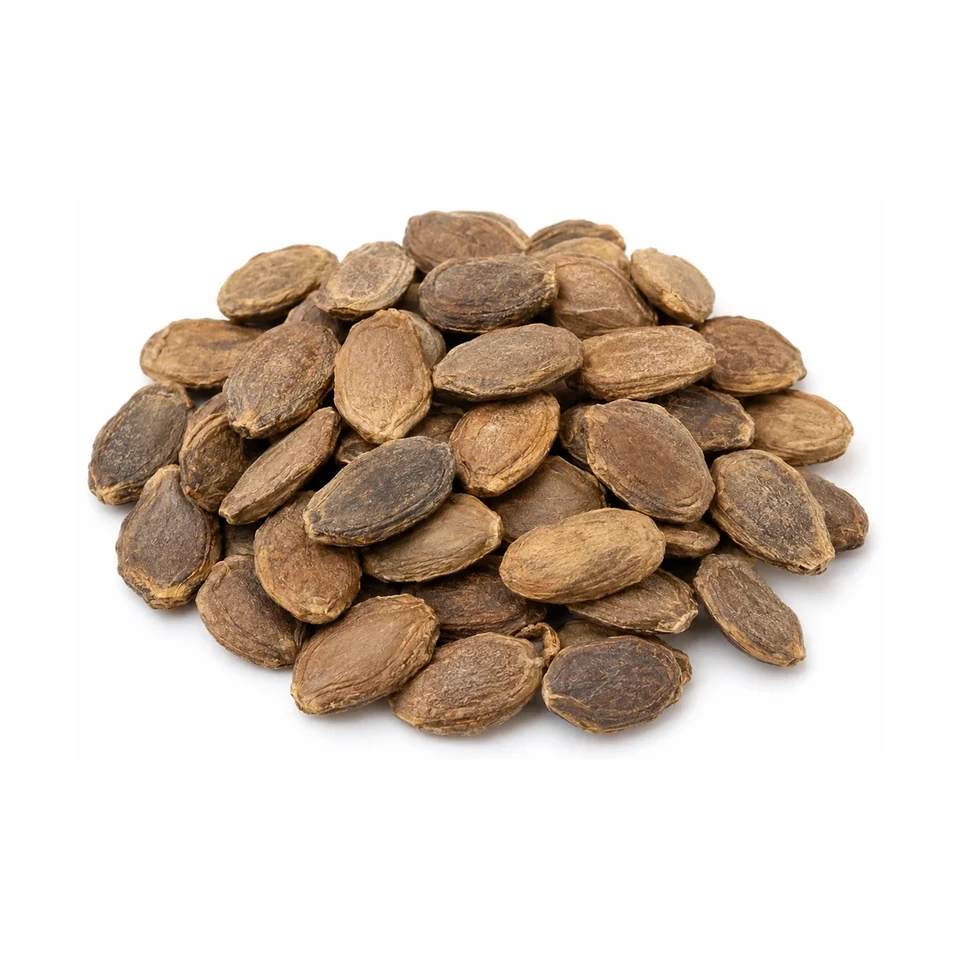
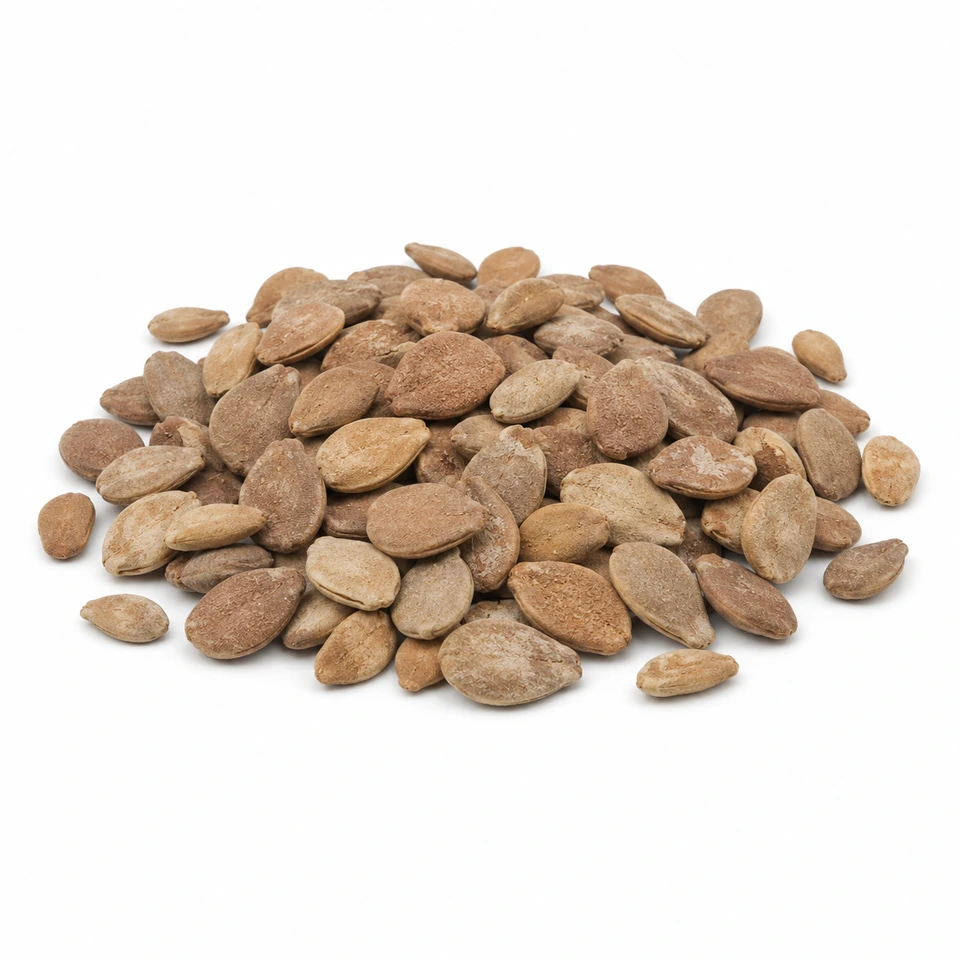
Apply approved whole and coarsely crushed Trichosanthes seed photos

diff --git a/app/ProductImage.js b/app/ProductImage.js
@@ -8,7 +8,7 @@ export default function ProductImage({ src, name, origin }) {
   const visible = Boolean(src) && !failed;
   const reference = src?.startsWith("/products-reference/");
   const localPhoto = reference || src?.startsWith("/products/");
-  const imageSrc = localPhoto ? `${src}${src.includes("?") ? "&" : "?"}photo=${src.split("?")[0] === "/products-reference/uniform-20261029/herb-001.webp" ? "gaja-20261117-v1" : src.split("?")[0] === "/products-reference/uniform-20261029/herb-003-v2.webp" ? "galgeun-20261117-v1" : src.split("?")[0] === "/products-reference/uniform-20261029/herb-004.webp" ? "galhwa-20261118-v1" : src.split("?")[0] === "/products-reference/uniform-20261029/herb-005.webp" ? "gamguk-20261118-v1" : src.split("?")[0] === "/products-reference/uniform-20261029/gamin-geomin.webp" ? "geomin-20261118-v1" : src.split("?")[0] === "/products-reference/uniform-20261029/herb-007.webp" ? "licorice-20261118-v1" : src.split("?")[0] === "/products-reference/uniform-20261029/gamcho-yangwai1-20261118.webp" ? "yangwai1-20261118-v3" : src.split("?")[0] === "/products-reference/uniform-20261029/gamcho-roasted-v2.webp" ? "roasted-20261118-v2" : src.split("?")[0].startsWith("/products-reference/uniform-20261029/gamcho-roasted-") ? "roasted-20261118-v2" : src.split("?")[0] === "/products-reference/uniform-20261029/herb-008.webp" ? "ganghwal-20261118-v1" : src.split("?")[0] === "/products-reference/uniform-20261029/herb-009-v2.webp" ? "jamganghwal-20261118-v3" : src.split("?")[0] === "/products-reference/uniform-20261029/herb-010.webp" ? "ganghwang-20261118-v2" : src.split("?")[0] === "/products-reference/uniform-20261029/herb-011.webp" ? "gaeja-20261118-v1" : src.split("?")[0] === "/products-reference/uniform-20261029/herb-012.webp" ? "ginger-20261118-v3" : src.split("?")[0] === "/products-reference/uniform-20261029/herb-013-v2.webp" ? "ginger-roasted-20261118-v1" : src.split("?")[0] === "/products-reference/uniform-20261029/ginger-domestic-20261118.webp" ? "ginger-domestic-20261118-v2" : src.split("?")[0] === "/products-reference/uniform-20261029/herb-014-v3.webp" ? "chestnut-20261118-v1" : src.split("?")[0] === "/products-reference/uniform-20261029/herb-015-v2.webp" ? "pharbitis-20261118-v1" : src.split("?")[0] === "/products-reference/uniform-20261029/herb-016.webp" ? "cassia-20261118-v1" : src.split("?")[0] === "/products-reference/uniform-20261029/herb-017-v2.webp" ? "gizzard-20261118-v1" : src.split("?")[0] === "/products-reference/uniform-20261029/herb-018-v2.webp" ? "gizzard-roasted-20261118-v1" : src.split("?")[0] === "/products-reference/uniform-20261029/herb-019-v3.webp" ? "twig-20261118-v1" : src.split("?")[0] === "/products-reference/uniform-20261029/herb-020.webp" ? "vine-20261118-v1" : src.split("?")[0] === "/products-reference/uniform-20261029/herb-021.webp" ? "galangal-20261118-v1" : src.split("?")[0] === "/products-reference/uniform-20261029/gobon-domestic-20261118.webp" ? "gobon-dom-20261118-v1" : src.split("?")[0] === "/products-reference/uniform-20261029/herb-022.webp" ? "gobon-imp-20261118-v1" : src.split("?")[0] === "/products-reference/uniform-20261029/herb-023-v2.webp" ? "sophora-20261118-v1" : src.split("?")[0] === "/products-reference/uniform-20261029/herb-024-v2.webp" ? "mistletoe-20261118-v1" : src.split("?")[0] === "/products-reference/uniform-20261029/herb-025.webp" ? "rice-20261118-v1" : src.split("?")[0] === "/products-reference/uniform-20261029/herb-026-v2.webp" ? "drynaria-20261118-v1" : src.split("?")[0] === "/products-reference/uniform-20261029/herb-027-v2.webp" ? "fruit-20261118-v1" : src.split("?")[0] === "/products-reference/uniform-20261029/gwakhyang.webp" ? "agastache-20261118-v1" : src.split("?")[0] === "/products-reference/uniform-20261029/herb-028-v2.webp" ? "coltsfoot-20261118-v1" : src.split("?")[0] === "/products-reference/uniform-20261029/gwallugeun-domestic-20261118.webp" ? "trich-dom-20261118-v1" : src.split("?")[0] === "/products-reference/uniform-20261029/herb-029-v2.webp" ? "trich-imp-20261118-v1" : "linen-20261116-v2"}` : src;
+  const imageSrc = localPhoto ? `${src}${src.includes("?") ? "&" : "?"}photo=${src.split("?")[0] === "/products-reference/uniform-20261029/herb-001.webp" ? "gaja-20261117-v1" : src.split("?")[0] === "/products-reference/uniform-20261029/herb-003-v2.webp" ? "galgeun-20261117-v1" : src.split("?")[0] === "/products-reference/uniform-20261029/herb-004.webp" ? "galhwa-20261118-v1" : src.split("?")[0] === "/products-reference/uniform-20261029/herb-005.webp" ? "gamguk-20261118-v1" : src.split("?")[0] === "/products-reference/uniform-20261029/gamin-geomin.webp" ? "geomin-20261118-v1" : src.split("?")[0] === "/products-reference/uniform-20261029/herb-007.webp" ? "licorice-20261118-v1" : src.split("?")[0] === "/products-reference/uniform-20261029/gamcho-yangwai1-20261118.webp" ? "yangwai1-20261118-v3" : src.split("?")[0] === "/products-reference/uniform-20261029/gamcho-roasted-v2.webp" ? "roasted-20261118-v2" : src.split("?")[0].startsWith("/products-reference/uniform-20261029/gamcho-roasted-") ? "roasted-20261118-v2" : src.split("?")[0] === "/products-reference/uniform-20261029/herb-008.webp" ? "ganghwal-20261118-v1" : src.split("?")[0] === "/products-reference/uniform-20261029/herb-009-v2.webp" ? "jamganghwal-20261118-v3" : src.split("?")[0] === "/products-reference/uniform-20261029/herb-010.webp" ? "ganghwang-20261118-v2" : src.split("?")[0] === "/products-reference/uniform-20261029/herb-011.webp" ? "gaeja-20261118-v1" : src.split("?")[0] === "/products-reference/uniform-20261029/herb-012.webp" ? "ginger-20261118-v3" : src.split("?")[0] === "/products-reference/uniform-20261029/herb-013-v2.webp" ? "ginger-roasted-20261118-v1" : src.split("?")[0] === "/products-reference/uniform-20261029/ginger-domestic-20261118.webp" ? "ginger-domestic-20261118-v2" : src.split("?")[0] === "/products-reference/uniform-20261029/herb-014-v3.webp" ? "chestnut-20261118-v1" : src.split("?")[0] === "/products-reference/uniform-20261029/herb-015-v2.webp" ? "pharbitis-20261118-v1" : src.split("?")[0] === "/products-reference/uniform-20261029/herb-016.webp" ? "cassia-20261118-v1" : src.split("?")[0] === "/products-reference/uniform-20261029/herb-017-v2.webp" ? "gizzard-20261118-v1" : src.split("?")[0] === "/products-reference/uniform-20261029/herb-018-v2.webp" ? "gizzard-roasted-20261118-v1" : src.split("?")[0] === "/products-reference/uniform-20261029/herb-019-v3.webp" ? "twig-20261118-v1" : src.split("?")[0] === "/products-reference/uniform-20261029/herb-020.webp" ? "vine-20261118-v1" : src.split("?")[0] === "/products-reference/uniform-20261029/herb-021.webp" ? "galangal-20261118-v1" : src.split("?")[0] === "/products-reference/uniform-20261029/gobon-domestic-20261118.webp" ? "gobon-dom-20261118-v1" : src.split("?")[0] === "/products-reference/uniform-20261029/herb-022.webp" ? "gobon-imp-20261118-v1" : src.split("?")[0] === "/products-reference/uniform-20261029/herb-023-v2.webp" ? "sophora-20261118-v1" : src.split("?")[0] === "/products-reference/uniform-20261029/herb-024-v2.webp" ? "mistletoe-20261118-v1" : src.split("?")[0] === "/products-reference/uniform-20261029/herb-025.webp" ? "rice-20261118-v1" : src.split("?")[0] === "/products-reference/uniform-20261029/herb-026-v2.webp" ? "drynaria-20261118-v1" : src.split("?")[0] === "/products-reference/uniform-20261029/herb-027-v2.webp" ? "fruit-20261118-v1" : src.split("?")[0] === "/products-reference/uniform-20261029/gwakhyang.webp" ? "agastache-20261118-v1" : src.split("?")[0] === "/products-reference/uniform-20261029/herb-028-v2.webp" ? "coltsfoot-20261118-v1" : src.split("?")[0] === "/products-reference/uniform-20261029/gwallugeun-domestic-20261118.webp" ? "trich-dom-20261118-v1" : src.split("?")[0] === "/products-reference/uniform-20261029/herb-029-v2.webp" ? "trich-imp-20261118-v1" : src.split("?")[0] === "/products-reference/uniform-20261029/herb-031.webp" ? "seed-whole-20261119-v1" : src.split("?")[0] === "/products-reference/uniform-20261029/herb-030-v2.webp" ? "seed-coarse-20261119-v1" : "linen-20261116-v2"}` : src;
   const domesticGalgeun = /^갈근(?:\s*\((?:사각|강원문막)\))?$/.test(name || "")
     && /국내산|국산|한국|대한민국/.test(origin || "")
     && src?.split("?")[0] === "/products-reference/uniform-20261029/herb-003-v2.webp";
